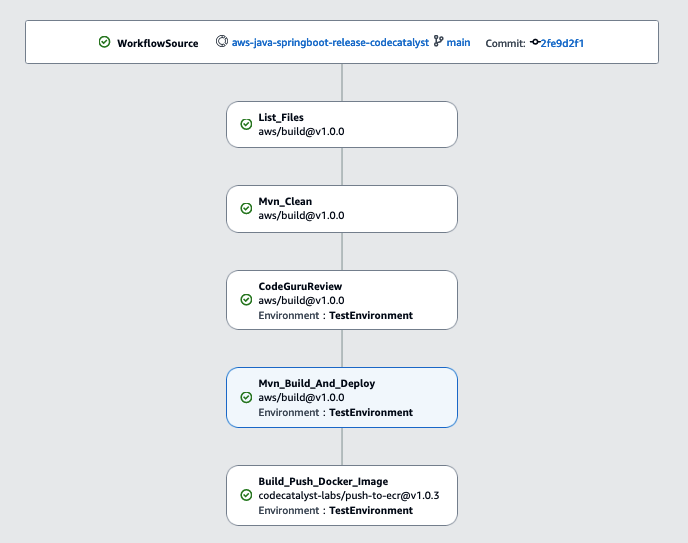
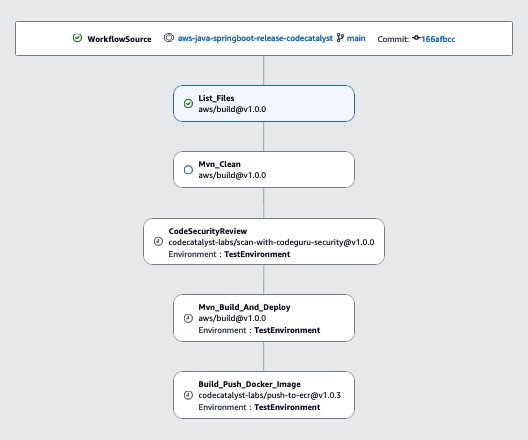
feat: using Amazon CodeGuru Security in place of Amazon CodeGuru Reviewer

Changed region(s): [[0.0303, 0.0295, 0.9697, 0.975]]

diff --git a/README.md b/README.md
@@ -1,7 +1,7 @@
 # CodeCatalyst CI Workflows for Java-SpringBoot Application
 * This is a simple example of two Continuous Integration workflows created in CodeCatalyst for a Java & Spring-Boot based backend application. The application exposes one API to perform a sum between integers Calculation
 * The repository includes, inside the `.codecatalyst/workloads` folder, the definition of two CodeCatalyst workflows:
-  * `build.yaml`: the workflow builds the jar, performs a CodeGuru Reviewer full-repository scan, uploads it to CodeArtifact, builds the Docker images, uploads it to ECR
+  * `build.yaml`: the workflow builds the jar, performs a CodeGuru Security review, uploads it to CodeArtifact, builds the Docker images, uploads it to ECR
   * `test.yaml`: the workflow perform unit and coverage tests on code
 
 
@@ -55,7 +55,7 @@ For unit testing we leverage JUnit 5, and for coverage test we leverage Jacoco C
 This workflow performs several steps, more specifically:
 * Listing files
 * Maven Cleaning
-* Performs a CodeGuru Reviewer full-repository scan (the report that will be produced will be available for each run)
+* Performs a Code Security Review (the report that will be produced will be available for each run)
 * Building the jar & uploading it to CodeArtifact repository 
 * Building the Docker image and uploading it to ECR 
 
@@ -63,8 +63,7 @@ This workflow performs several steps, more specifically:
 
 ## Resources
 * [Setting up CodeCatalyst](https://docs.aws.amazon.com/codecatalyst/latest/userguide/setting-up-topnode.html)  
-* [Getting Started with CodeGuru Reviewer](https://docs.aws.amazon.com/codeguru/latest/reviewer-ug/getting-started-with-guru.html)  
-* [CodeGuru Reviewer Wrapper CLI](https://github.com/aws/aws-codeguru-cli)
+* [Getting Started with CodeGuru Security](https://docs.aws.amazon.com/codeguru/latest/security-api/Welcome.html)
 * [Getting started with CodeArtifact](https://docs.aws.amazon.com/codeartifact/latest/ug/getting-started.html) 
 * [Amazon ECR User Guide](https://docs.aws.amazon.com/AmazonECR/latest/userguide/what-is-ecr.html)  
 
